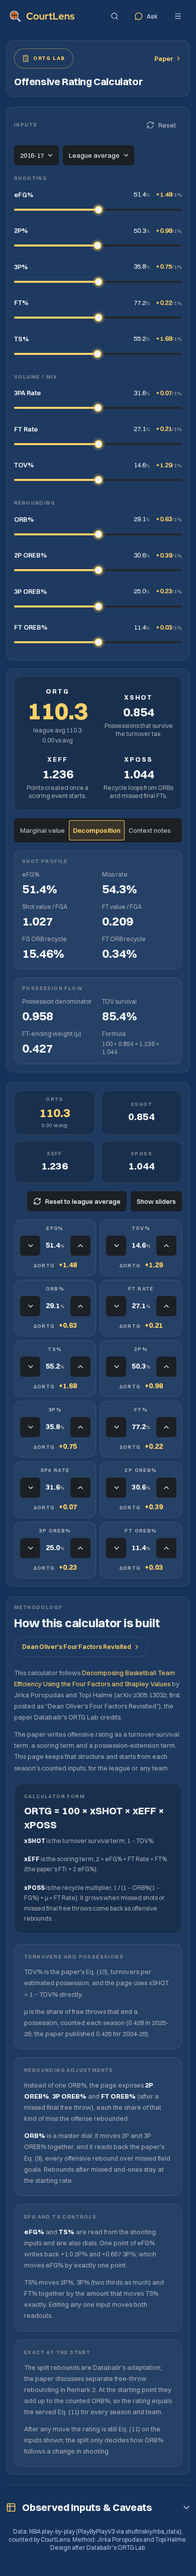
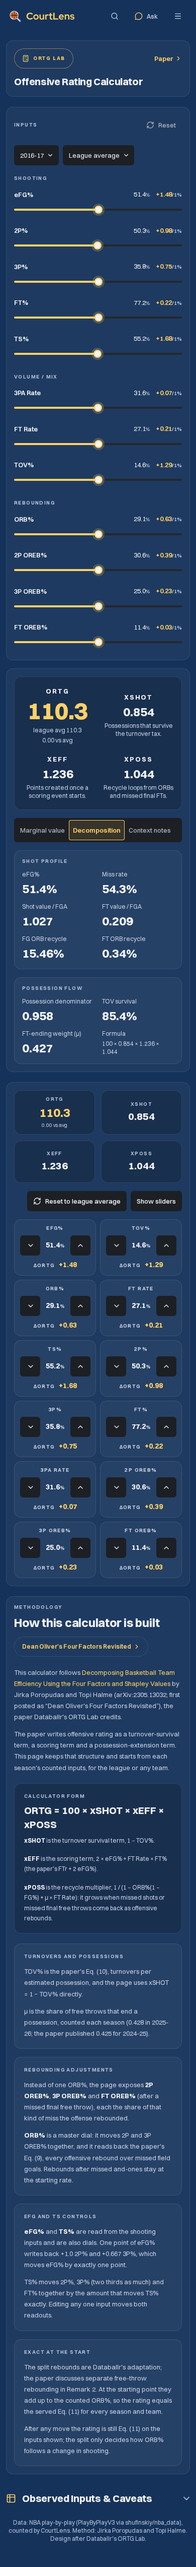
fix(design): RD02 round 4, the site's text colour on the calculator and no dividers around the collapsed section or the Six-Factor intro

Changed region(s): [[0.0615, 0.0624, 0.9231, 0.9678]]

diff --git a/dashboard/components/ortg-lab-view.css b/dashboard/components/ortg-lab-view.css
@@ -5,7 +5,7 @@
   .rs-column.ol-page { max-width: 1352px; gap: var(--space-5); }
   .ol-panel { display: grid; align-content: start; gap: var(--space-4); min-width: 0; padding: var(--space-5); border-radius: var(--radius-lg); background: var(--rs-panel); box-shadow: inset 0 0 0 1px var(--rs-rim); }
   .ol-well { border-radius: var(--radius-lg); background: var(--rs-well); box-shadow: inset 0 0 0 1px var(--rs-rim); }
-  .ol-kicker { margin: 0; color: var(--color-text-tertiary); font-size: var(--text-2xs); line-height: var(--text-2xs-lh); font-weight: 650; letter-spacing: 0.14em; text-transform: uppercase; }
+  .ol-kicker { margin: 0; color: var(--color-on-bg-tertiary); font-size: var(--text-2xs); line-height: var(--text-2xs-lh); font-weight: 650; letter-spacing: 0.14em; text-transform: uppercase; }
   .ol-link { display: inline-flex; align-items: center; gap: var(--space-1); color: var(--color-accent); font-size: var(--text-sm); line-height: var(--text-sm-lh); font-weight: 600; text-decoration: none; }
   .ol-link:hover { color: var(--color-accent-hover); }
   .ol-link:focus-visible { outline: none; border-radius: var(--radius-xs); box-shadow: var(--focus-ring); }
@@ -26,8 +26,8 @@
   .ol-row { display: grid; grid-template-columns: 96px 60px minmax(0, 1fr) 72px; align-items: center; gap: var(--space-3); min-height: var(--control-lg); }
   .ol-row-label { color: var(--color-text); font-size: var(--text-sm); line-height: var(--text-sm-lh); font-weight: 600; }
   .ol-row-value, .ol-step-value { color: var(--color-text); font-size: var(--text-sm); font-variant-numeric: tabular-nums; white-space: nowrap; }
-  .ol-row-value small, .ol-step-value small, .ol-row-delta small { margin-left: var(--space-0); color: var(--color-text-tertiary); font-size: var(--text-2xs); }
-  .ol-row-delta { color: var(--color-text-tertiary); font-size: var(--text-sm); font-variant-numeric: tabular-nums; font-weight: 600; text-align: right; white-space: nowrap; }
+  .ol-row-value small, .ol-step-value small, .ol-row-delta small { margin-left: var(--space-0); color: var(--color-on-bg-tertiary); font-size: var(--text-2xs); }
+  .ol-row-delta { color: var(--color-on-bg-tertiary); font-size: var(--text-sm); font-variant-numeric: tabular-nums; font-weight: 600; text-align: right; white-space: nowrap; }
   .ol-range { width: 100%; height: var(--space-6); min-height: 0; margin: 0; padding: 0; border: 0; background: transparent; appearance: none; cursor: pointer; }
   .ol-range::-webkit-slider-runnable-track { height: var(--space-1); border-radius: var(--radius-pill); background: linear-gradient(to right, var(--color-accent) var(--fill), var(--color-surface-3) var(--fill)); }
   .ol-range::-moz-range-track { height: var(--space-1); border-radius: var(--radius-pill); background: linear-gradient(to right, var(--color-accent) var(--fill), var(--color-surface-3) var(--fill)); }
@@ -42,9 +42,9 @@
   .ol-term { display: grid; justify-items: center; align-content: start; gap: var(--space-1); min-width: 0; text-align: center; }
   .ol-term-label { color: var(--color-text); font-size: var(--text-sm); line-height: var(--text-sm-lh); font-weight: 700; letter-spacing: 0.14em; text-transform: uppercase; }
   .ol-term-value { color: var(--color-text); font-size: var(--text-2xl); line-height: var(--text-2xl-lh); font-weight: 700; font-variant-numeric: tabular-nums; }
-  .ol-term-text { color: var(--color-text-secondary); font-size: var(--text-xs); line-height: var(--text-xs-lh); }
+  .ol-term-text { color: var(--color-on-bg-secondary); font-size: var(--text-xs); line-height: var(--text-xs-lh); }
   .ol-ortg { color: var(--color-accent); font-size: calc(var(--text-3xl) * 1.5); line-height: 1.1; font-weight: 750; letter-spacing: -0.02em; font-variant-numeric: tabular-nums; }
-  .ol-vs { color: var(--color-text-secondary); font-size: var(--text-xs); line-height: var(--text-xs-lh); font-variant-numeric: tabular-nums; }
+  .ol-vs { color: var(--color-on-bg-secondary); font-size: var(--text-xs); line-height: var(--text-xs-lh); font-variant-numeric: tabular-nums; }
   .ol-op { color: var(--color-text); font-size: var(--text-xl); font-weight: 700; }
   .ol-tabs { justify-self: start; }
   .ol-tab-body { min-width: 0; }
@@ -54,21 +54,21 @@
   .ol-card { display: grid; align-content: start; gap: var(--space-3); min-width: 0; padding: var(--space-4); border-radius: var(--radius-lg); background: var(--rs-panel); box-shadow: inset 0 0 0 1px var(--rs-rim); }
   .ol-facts { display: grid; grid-template-columns: repeat(2, minmax(0, 1fr)); gap: var(--space-3) var(--space-4); margin: 0; }
   .ol-fact { display: grid; gap: var(--space-1); min-width: 0; }
-  .ol-fact dt { color: var(--color-text-secondary); font-size: var(--text-xs); line-height: var(--text-xs-lh); }
+  .ol-fact dt { color: var(--color-on-bg-secondary); font-size: var(--text-xs); line-height: var(--text-xs-lh); }
   .ol-fact dd { margin: 0; color: var(--color-text); font-size: var(--text-2xl); line-height: var(--text-2xl-lh); font-weight: 700; font-variant-numeric: tabular-nums; }
-  .ol-fact dd.ol-formula { color: var(--color-text-secondary); font-size: var(--text-xs); line-height: var(--text-xs-lh); font-weight: 400; }
+  .ol-fact dd.ol-formula { color: var(--color-on-bg-secondary); font-size: var(--text-xs); line-height: var(--text-xs-lh); font-weight: 400; }
 
   /* Marginal value board: ΔORTG per point, ranked. */
   .ol-board-list { display: grid; gap: var(--space-2); margin: 0; padding: var(--space-4); border-radius: var(--radius-lg); background: var(--rs-panel); box-shadow: inset 0 0 0 1px var(--rs-rim); list-style: none; }
   .ol-board-list li { display: grid; grid-template-columns: 112px minmax(0, 1fr) 56px; align-items: center; gap: var(--space-3); min-height: var(--space-6); }
   .ol-board-label { color: var(--color-text); font-size: var(--text-sm); font-weight: 600; white-space: nowrap; }
-  .ol-board-label small { color: var(--color-text-tertiary); font-size: var(--text-2xs); }
+  .ol-board-label small { color: var(--color-on-bg-tertiary); font-size: var(--text-2xs); }
   .ol-bar { display: block; height: var(--space-2); border-radius: var(--radius-pill); background: var(--rs-well); overflow: hidden; }
-  .ol-bar-fill { display: block; width: var(--w); height: 100%; border-radius: inherit; background: var(--color-text-tertiary); }
+  .ol-bar-fill { display: block; width: var(--w); height: 100%; border-radius: inherit; background: var(--color-on-bg-tertiary); }
   .ol-bar-fill[data-identity="a"] { background: var(--color-identity-a); }
   .ol-bar-fill[data-identity="b"] { background: var(--color-identity-b); }
-  .ol-board-value { color: var(--color-text-tertiary); font-size: var(--text-sm); font-weight: 650; font-variant-numeric: tabular-nums; text-align: right; }
-  .ol-notes { display: grid; gap: var(--space-2); margin: 0; padding: var(--space-4) var(--space-4) var(--space-4) var(--space-8); border-radius: var(--radius-lg); background: var(--rs-panel); box-shadow: inset 0 0 0 1px var(--rs-rim); color: var(--color-text-secondary); font-size: var(--text-sm); line-height: var(--text-sm-lh); }
+  .ol-board-value { color: var(--color-on-bg-tertiary); font-size: var(--text-sm); font-weight: 650; font-variant-numeric: tabular-nums; text-align: right; }
+  .ol-notes { display: grid; gap: var(--space-2); margin: 0; padding: var(--space-4) var(--space-4) var(--space-4) var(--space-8); border-radius: var(--radius-lg); background: var(--rs-panel); box-shadow: inset 0 0 0 1px var(--rs-rim); color: var(--color-on-bg-secondary); font-size: var(--text-sm); line-height: var(--text-sm-lh); }
   .ol-notes strong { color: var(--color-text); }
 
   /* Stepper board. */
@@ -84,7 +84,7 @@
   .ol-step { grid-template-columns: auto minmax(0, 1fr); align-items: center; gap: var(--space-3); }
   .ol-step-main { display: grid; justify-items: center; gap: var(--space-2); }
   .ol-step-side { display: grid; justify-items: end; gap: var(--space-2); }
-  .ol-step .ol-kicker { color: var(--color-text-secondary); }
+  .ol-step .ol-kicker { color: var(--color-on-bg-secondary); }
   /* Round 3 (owner): balanced halves. Two equal columns, each centred; the labels share the first row and the
      control and ΔORTG share the second, so both halves sit level. A phone keeps the stacked card below. */
   @media (min-width: 701px) {
@@ -98,7 +98,7 @@
   }
   .ol-step-control { display: inline-flex; align-items: center; gap: var(--space-2); }
   .ol-step-value { min-width: 56px; font-size: var(--text-lg); font-weight: 700; text-align: center; }
-  .ol-step-delta { color: var(--color-text-tertiary); font-size: var(--text-lg); line-height: var(--text-lg-lh); font-weight: 700; font-variant-numeric: tabular-nums; }
+  .ol-step-delta { color: var(--color-on-bg-tertiary); font-size: var(--text-lg); line-height: var(--text-lg-lh); font-weight: 700; font-variant-numeric: tabular-nums; }
 
   /* Methodology panel. */
   .ol-method { gap: var(--space-5); padding: var(--space-6); }
@@ -106,13 +106,13 @@
   .ol-method-title { margin: var(--space-2) 0 0; color: var(--color-text); font-size: var(--text-2xl); line-height: var(--text-2xl-lh); font-weight: 700; letter-spacing: -0.01em; }
   .ol-link-pill { min-height: var(--control-md); padding: 0 var(--space-4); border-radius: var(--radius-pill); box-shadow: inset 0 0 0 1px var(--rs-rim); font-size: var(--text-xs); }
   .ol-prose { display: grid; gap: var(--space-3); max-width: 112ch; }
-  .ol-prose p { margin: 0; color: var(--color-text-secondary); font-size: var(--text-sm); line-height: 1.7; }
+  .ol-prose p { margin: 0; color: var(--color-on-bg-secondary); font-size: var(--text-sm); line-height: 1.7; }
   .ol-prose strong { color: var(--color-text); }
   .ol-prose a { color: var(--color-accent); }
   .ol-form { display: grid; gap: var(--space-2); padding: var(--space-5); }
   .ol-form-line { margin: 0; color: var(--color-text); font-size: var(--text-xl); line-height: var(--text-xl-lh); font-weight: 700; }
   .ol-form-terms { display: grid; grid-template-columns: repeat(3, minmax(0, 1fr)); gap: var(--space-4); }
-  .ol-form-terms p { margin: 0; color: var(--color-text-secondary); font-size: var(--text-xs); line-height: 1.7; }
+  .ol-form-terms p { margin: 0; color: var(--color-on-bg-secondary); font-size: var(--text-xs); line-height: 1.7; }
   .ol-form-terms strong { color: var(--color-text); }
   .ol-method-card { padding: var(--space-5); }
 
@@ -122,8 +122,10 @@
   .ol-observed-pair { display: grid; grid-template-columns: repeat(2, minmax(0, 1fr)); align-items: start; gap: var(--space-4); }
   .ol-observed-stack { display: grid; gap: var(--space-4); min-width: 0; }
   .ol-team-cell { display: inline-flex; align-items: center; gap: var(--space-2); font-weight: 600; }
-  .ol-list { display: grid; gap: var(--space-1); margin: 0; padding-left: var(--space-5); color: var(--color-text-secondary); font-size: var(--text-sm); line-height: var(--text-sm-lh); }
+  .ol-list { display: grid; gap: var(--space-1); margin: 0; padding-left: var(--space-5); color: var(--color-on-bg-secondary); font-size: var(--text-sm); line-height: var(--text-sm-lh); }
   .ol-observed code { font-family: var(--font-mono), monospace; overflow-wrap: anywhere; }
+  /* Round 4 (owner): no divider above the collapsed section. */
+  .ol-page .rs-disclosure { padding-top: var(--space-2); border-top: 0; }
   .ol-sources { margin: 0; color: var(--color-on-bg-tertiary); font-size: var(--text-xs); line-height: var(--text-xs-lh); text-align: center; }
 
   @media (max-width: 1100px) {

diff --git a/dashboard/components/six-factor-research.css b/dashboard/components/six-factor-research.css
@@ -97,3 +97,13 @@
     .sf-node .sf-range { max-width: none; }
   }
 }
+
+/* Owner (RD02 round 4): no dividers above and below the intro line, under the filter bar and over The Framework. The
+   filter bar's rule lives in `foundation`, above `pages`, so its override goes there. */
+@layer foundation {
+  .sf-page .ui-filter-bar { border-bottom: 0; }
+}
+@layer pages {
+  .sf-page .rs-intro + .rs-section, .sf-page .rs-intro + .ui-gated-note + .rs-section { border-top: 0; padding-top: var(--space-4); }
+}
+

diff --git a/docs/evidence/research/design-RD02/README.md b/docs/evidence/research/design-RD02/README.md
@@ -101,3 +101,26 @@ wrapper class); no numbers changed.
 
 :3100 served stale CSS twice; refreshed by toggling the import. :8000 and :3100 were not restarted; 3180/4180 stopped and the
 sandbox deleted.
+
+## Round 4 (owner, 2026-11-07)
+
+Instructions, from screenshots of the methodology panel and the Six-Factor RAPM intro: (4) *"Why is the text so grey here?
+That's not what we use across the site."* (5) *"Remove the divider above 'Observed Inputs & Caveats'."* (6) *"Remove the divider
+above and below 'RAPM split into six factors,' on the six-factor RAPM page. These dividers are ugly."* CSS only.
+
+| Change | Detail |
+| --- | --- |
+| Text colour | This page used the neutral greys `--color-text-secondary` (#a9afb9) and `--color-text-tertiary`. All 17 uses now take the Research pages' `--color-on-bg-secondary` (#c9d3e6) and `--color-on-bg-tertiary`, as `.rs-prose` and `.rs-card-text` do |
+| Observed divider | `.ol-page .rs-disclosure` has no top rule |
+| Six-Factor intro | `.sf-page .ui-filter-bar` has no bottom rule (in `@layer foundation`, where the filter bar's rule lives) and the first section after the intro has no top rule. Only that page; RD00 stays ✅ unless the owner says otherwise |
+
+| Check | Result |
+| --- | --- |
+| Lint, typecheck, Vitest | 0 / 0; clean; 812 passed |
+| Page Playwright ×3 (calculator specs plus `r02-six-factor`) | 119/119 |
+| Full Playwright (sandbox) | 592 passed, 17 skipped, 2 failed: the `pc11-six-factor` baselines, changed by design. Deleted, regenerated, viewed (no dividers around the intro at 1440 and 390); visual spec then 84/84 |
+| Real data | 1,596 values in three scenes at 1440 and 390: 0 mismatches, 0 console errors, 0 overflow, 0 broken images |
+| Screenshots (viewed) | [`calculator-method-r4-1440.png`](calculator-method-r4-1440.png), [`-390`](calculator-method-r4-390.png), [`calculator-observed-head-r4-1440.png`](calculator-observed-head-r4-1440.png), [`six-factor-intro-r4-1440.png`](six-factor-intro-r4-1440.png), [`-390`](six-factor-intro-r4-390.png) |
+
+:3100 served stale CSS; refreshed by toggling both imports. :8000 and :3100 not restarted; 3180/4180 stopped, sandbox deleted.
+

diff --git a/docs/research-design-catalog.md b/docs/research-design-catalog.md
@@ -136,6 +136,8 @@ Instructions (owner, 2026-11-06, round 7; screenshot of the All Ratings table sc
    — The pinned player column tied the sticky filter bar's layer and, being later, painted over it; the shared table's
    scroll frame is now its own stacking context, so it scrolls under the bar on both tabs at every width.
 
+Owner, 2026-11-07 (given during RD02 round 4, instruction 6): the dividers above and below the intro line removed.
+
 ## RD01 Combine & Wingspan — ✅ approved by the owner (2026-11-07)
 
 - **Now:** the combine measurements view plus R10's plain sections: career and current DARKO D-DPM,
@@ -254,6 +256,16 @@ Instructions (owner, 2026-11-07, round 2; screenshot: the stepper board's ORTG /
 3. [x] (Screenshot: the stepper cards.) Balance the left and right columns in the container, it looks a little weird.
    — Each stepper card is two equal columns, each centred; the label and ΔORTG share one row and the control and its
    figure the next. A phone keeps the stacked two-column board.
+
+Instructions (owner, 2026-11-07, round 4; screenshots: the methodology panel, and the Six-Factor RAPM intro):
+4. [x] Why is the text so grey here (the methodology panel)? That's not what we use across the site.
+   — The page used the neutral greys (`--color-text-secondary` / `-tertiary`); every one now uses the Research pages'
+   blue-tinted `--color-on-bg-secondary` / `-tertiary`, as the other explainers do.
+5. [x] Remove the divider above "Observed Inputs & Caveats".
+   — Its top rule is gone on this page.
+6. [x] Remove the divider above and below "RAPM split into six factors," on the Six-Factor RAPM page. These dividers are ugly.
+   — The filter bar's bottom rule and The Framework's top rule are gone on that page (`six-factor-research.css`); its two
+   visual baselines regenerated and viewed.
 
 ## RD03 zTS — ⬜
 

diff --git a/docs/research-progress.md b/docs/research-progress.md
@@ -485,3 +485,14 @@ tiles are nested too deep (one level only); balance the stepper cards' left and 
   0 overflow, 0 broken images.
 - **Not done.** The owner's review and ✅.
 
+## 2026-11-07 — RD02 round 4: site text colour, fewer dividers
+
+[Evidence](evidence/research/design-RD02/README.md#round-4-owner-2026-11-07). Owner: the methodology text is greyer than the
+site's; remove the divider above Observed Inputs & Caveats, and the dividers above and below the Six-Factor RAPM intro. CSS only.
+
+- **Change.** The calculator's neutral greys become the Research pages' blue-tinted `--color-on-bg-*` tokens; no rule above
+  the collapsed section. Six-Factor RAPM: no rule under the filter bar or over The Framework (RD00's page, at the owner's word).
+- **Checks.** Lint 0/0, typecheck, Vitest 812; page specs 119/119 ×3; full Playwright 592 passed, 2 failed (the Six-Factor
+  baselines, changed by design; regenerated, viewed, visual spec 84/84); real data 1,596 values, 0 mismatches.
+- **Not done.** The owner's review and ✅.
+
